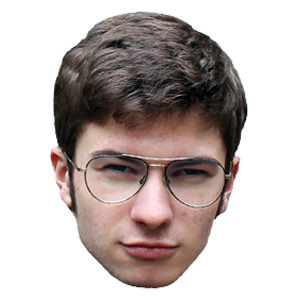
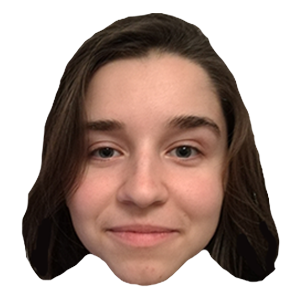
ajout images lucas + clara

diff --git a/css/style.css b/css/style.css
@@ -211,12 +211,12 @@ input[type=range]::-moz-range-track {
 
 #clara:checked + label,
 #clara:hover + label {
-    background-image: url(../images/baptiste_head.png);
+    background-image: url(../images/clara_head.png);
 }
 
 #lucas:checked + label,
 #lucas:hover + label {
-    background-image: url(../images/baptiste_head.png);
+    background-image: url(../images/lucas_head.png);
 }
 
 #baptiste + label {
@@ -224,11 +224,11 @@ input[type=range]::-moz-range-track {
 }
 
 #clara + label {
-    background-image: url(../images/baptiste_head_noBorder.png);
+    background-image: url(../images/clara_head_noBorder.png);
 }
 
 #lucas + label {
-    background-image: url(../images/baptiste_head_noBorder.png);
+    background-image: url(../images/lucas_head_noBorder.png);
 }
 
 
